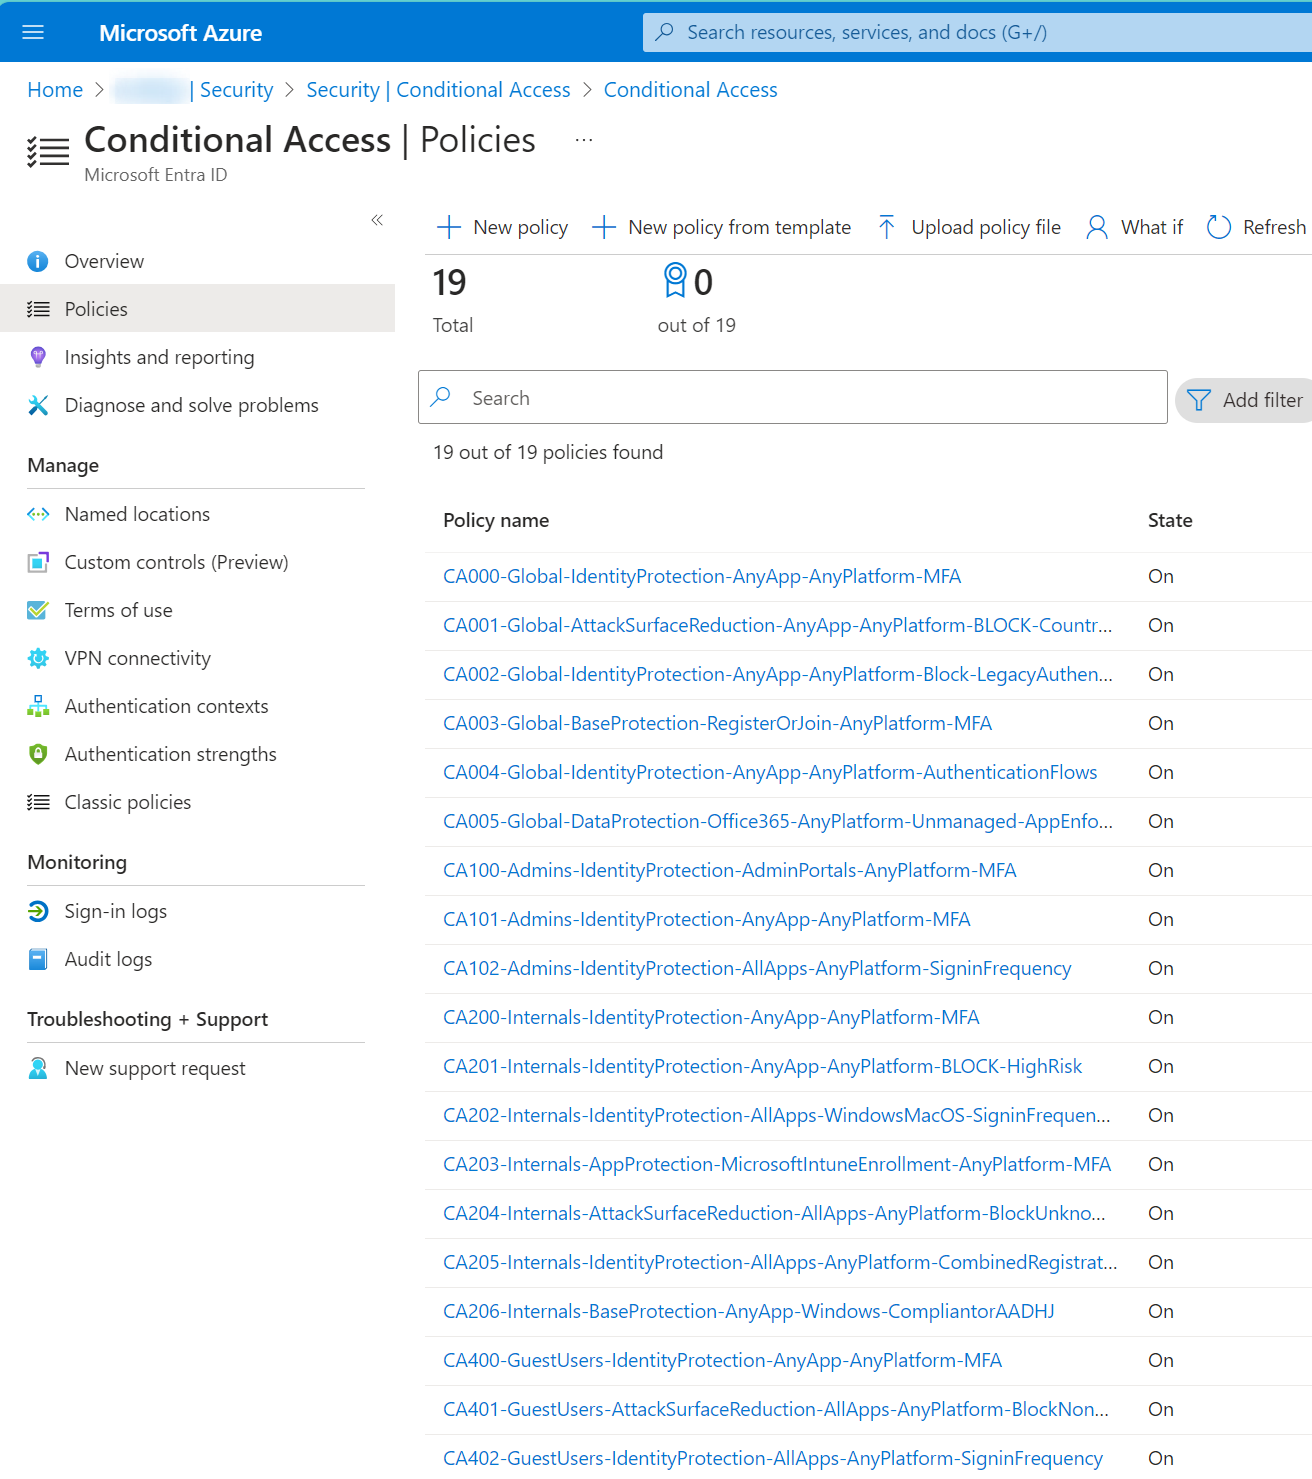
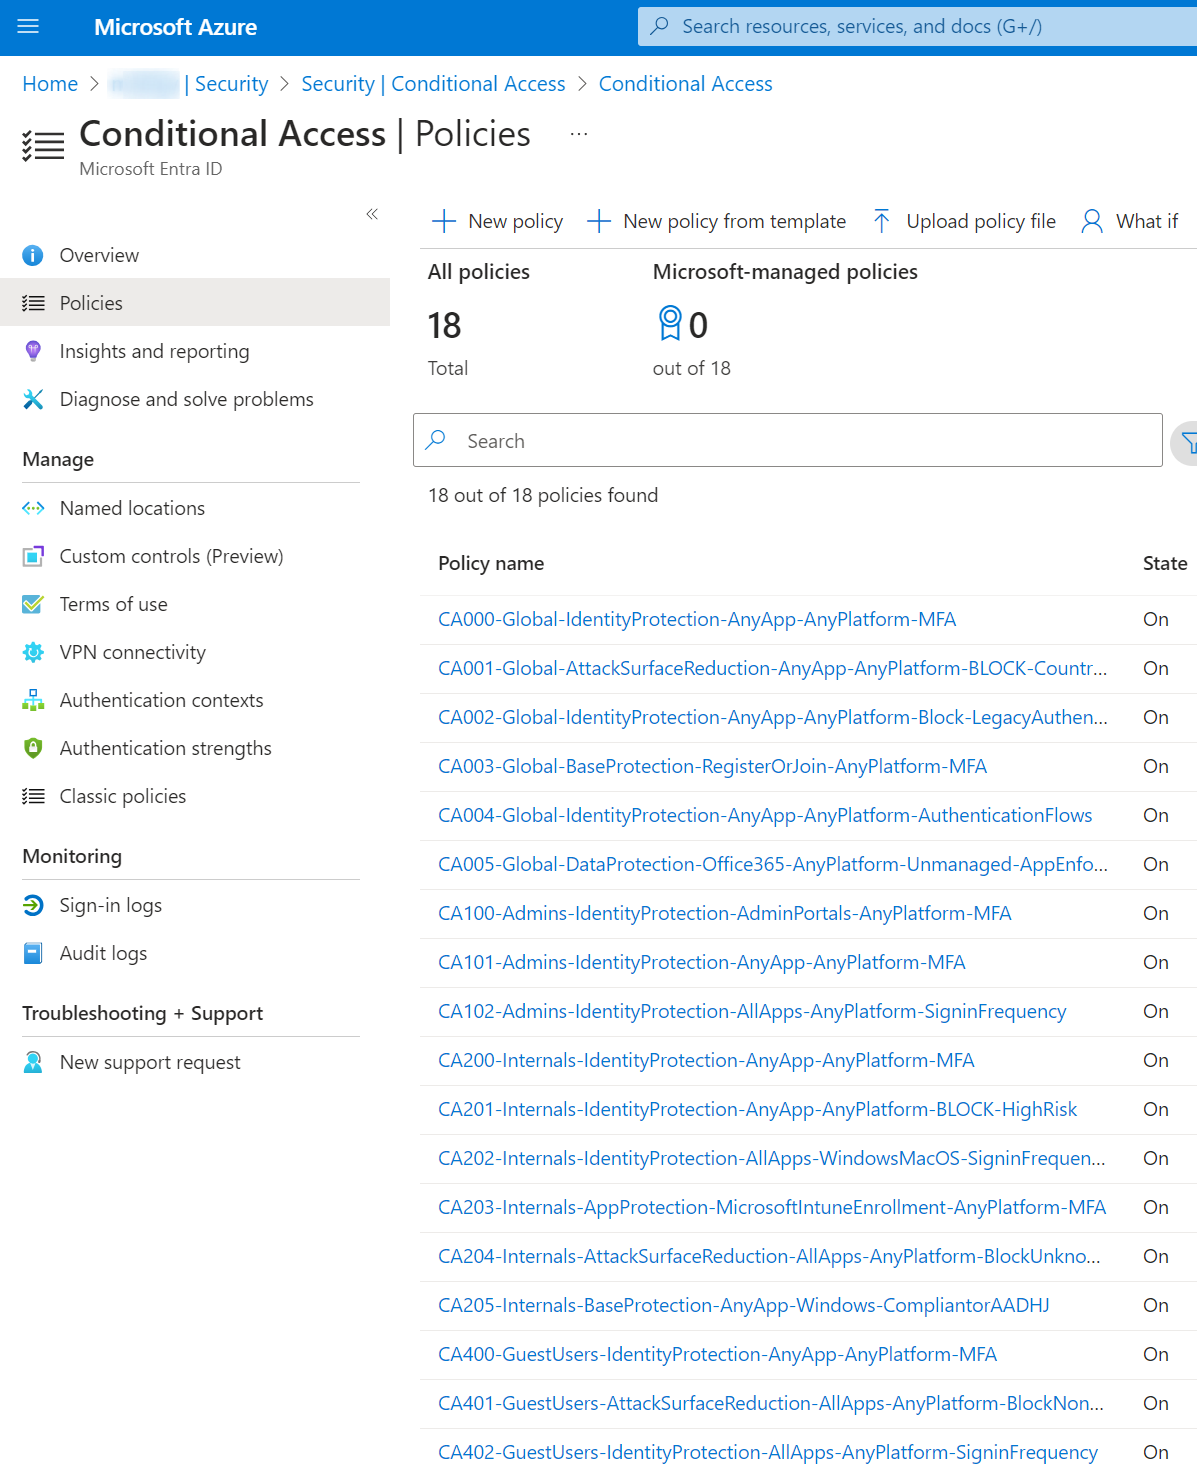
Update

diff --git a/README.md b/README.md
@@ -35,8 +35,7 @@ This conditional access baseline is based on the Microsoft Conditional Access Ba
     - [CA202-Internals-IdentityProtection-AllApps-WindowsMacOS-SigninFrequency-UnmanagedDevices](#ca202-internals-identityprotection-allapps-windowsmacos-signinfrequency-unmanageddevices)
     - [CA203-Internals-AppProtection-MicrosoftIntuneEnrollment-AnyPlatform-MFA](#ca203-internals-appprotection-microsoftintuneenrollment-anyplatform-mfa)
     - [CA204-Internals-AttackSurfaceReduction-AllApps-AnyPlatform-BlockUnknownPlatforms](#ca204-internals-attacksurfacereduction-allapps-anyplatform-blockunknownplatforms)
-    - [CA205-Internals-IdentityProtection-AllApps-AnyPlatform-CombinedRegistration](#ca205-internals-identityprotection-allapps-anyplatform-combinedregistration)
-    - [CA206-Internals-BaseProtection-AnyApp-Windows-CompliantorAADHJ](#ca206-internals-baseprotection-anyapp-windows-compliantoraadhj)
+    - [CA205-Internals-BaseProtection-AnyApp-Windows-CompliantorAADHJ](#ca205-internals-baseprotection-anyapp-windows-compliantoraadhj)
     - [CA400-GuestUsers-IdentityProtection-AnyApp-AnyPlatform-MFA](#ca400-guestusers-identityprotection-anyapp-anyplatform-mfa)
     - [CA401-GuestUsers-AttackSurfaceReduction-AllApps-AnyPlatform-BlockNonGuestAppAccess](#ca401-guestusers-attacksurfacereduction-allapps-anyplatform-blocknonguestappaccess)
     - [CA402-GuestUsers-IdentityProtection-AllApps-AnyPlatform-SigninFrequency](#ca402-guestusers-identityprotection-allapps-anyplatform-signinfrequency)
@@ -178,16 +177,9 @@ This policy blocks unknown/unsupported device platforms for internals.
 > Currently only Windows, MacOS, Android and iOS are supported. If (for example) Linux or Windows Phone is allowed you need to modify the policy.
 
 > [!IMPORTANT]
-> Verify the included group(s) and/or add your custom groups which have all internals in it.
+> Verify the included group(s) and/or add your custom groups which have all internals in it..
 
-### CA205-Internals-IdentityProtection-AllApps-AnyPlatform-CombinedRegistration
-
-This policy requires security information registration for internals only from a managed or compliant device.
-
-> [!IMPORTANT]
-> Verify the included group(s) and/or add your custom groups which have all internals in it.
-
-### CA206-Internals-BaseProtection-AnyApp-Windows-CompliantorAADHJ
+### CA205-Internals-BaseProtection-AnyApp-Windows-CompliantorAADHJ
 
 This policy requires internals to make use of a Windows device that is compliant or AADHJ (Azure AD Hybrid Joined / Entra ID Hybrid Joined) while accessing any cloud app.
 
